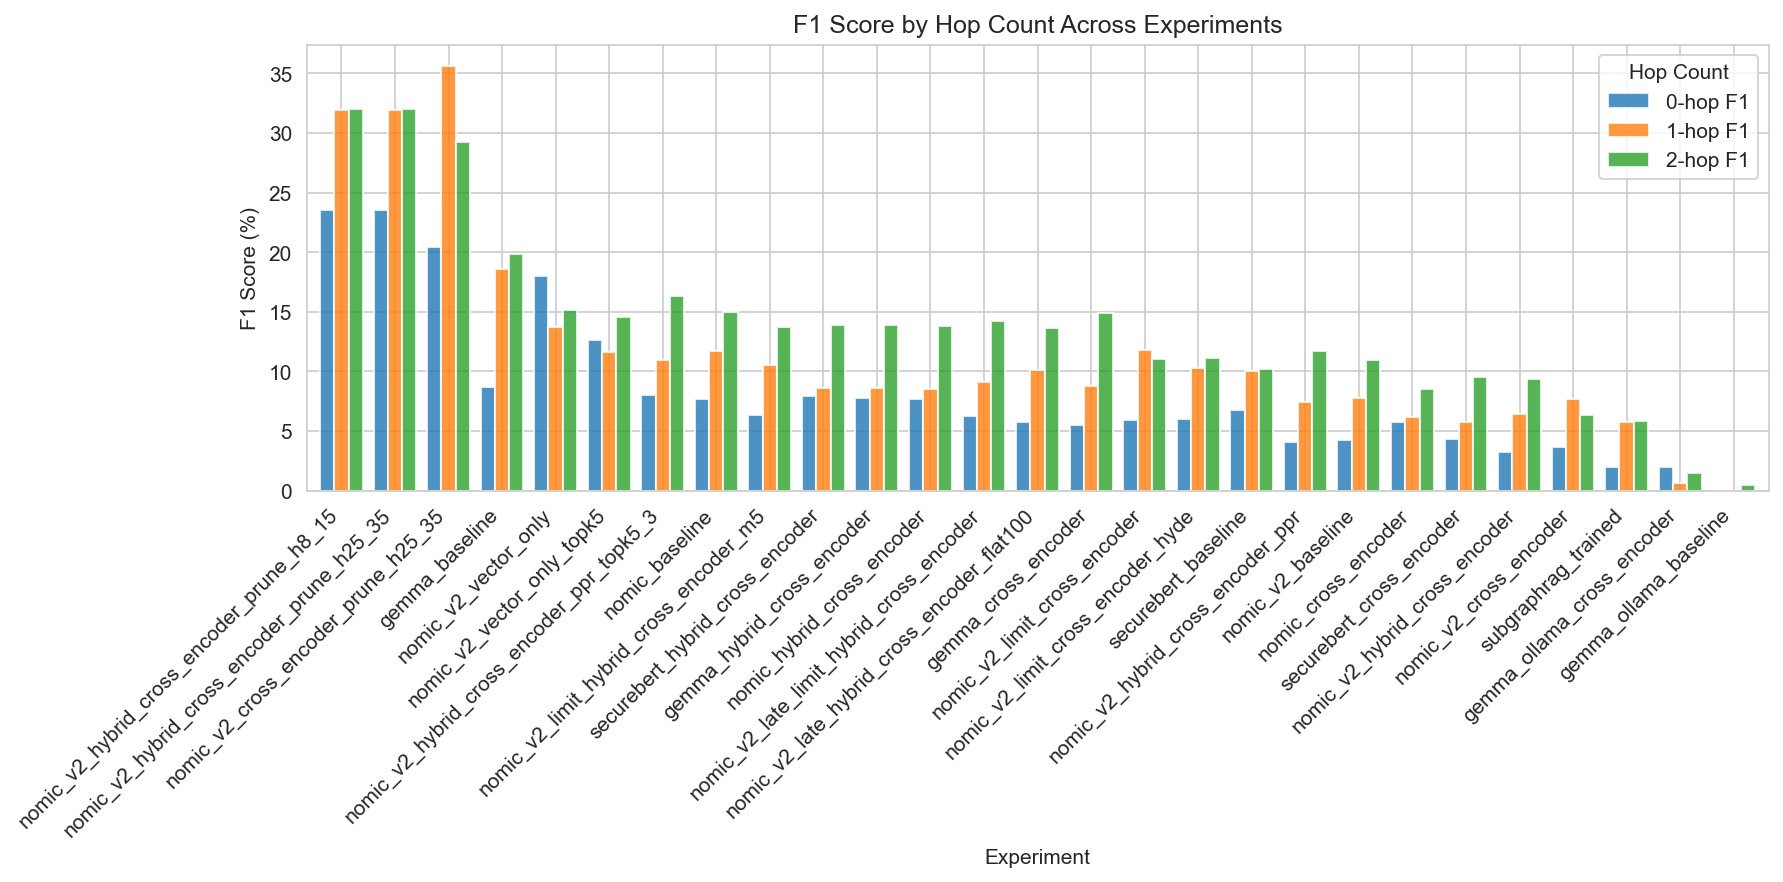
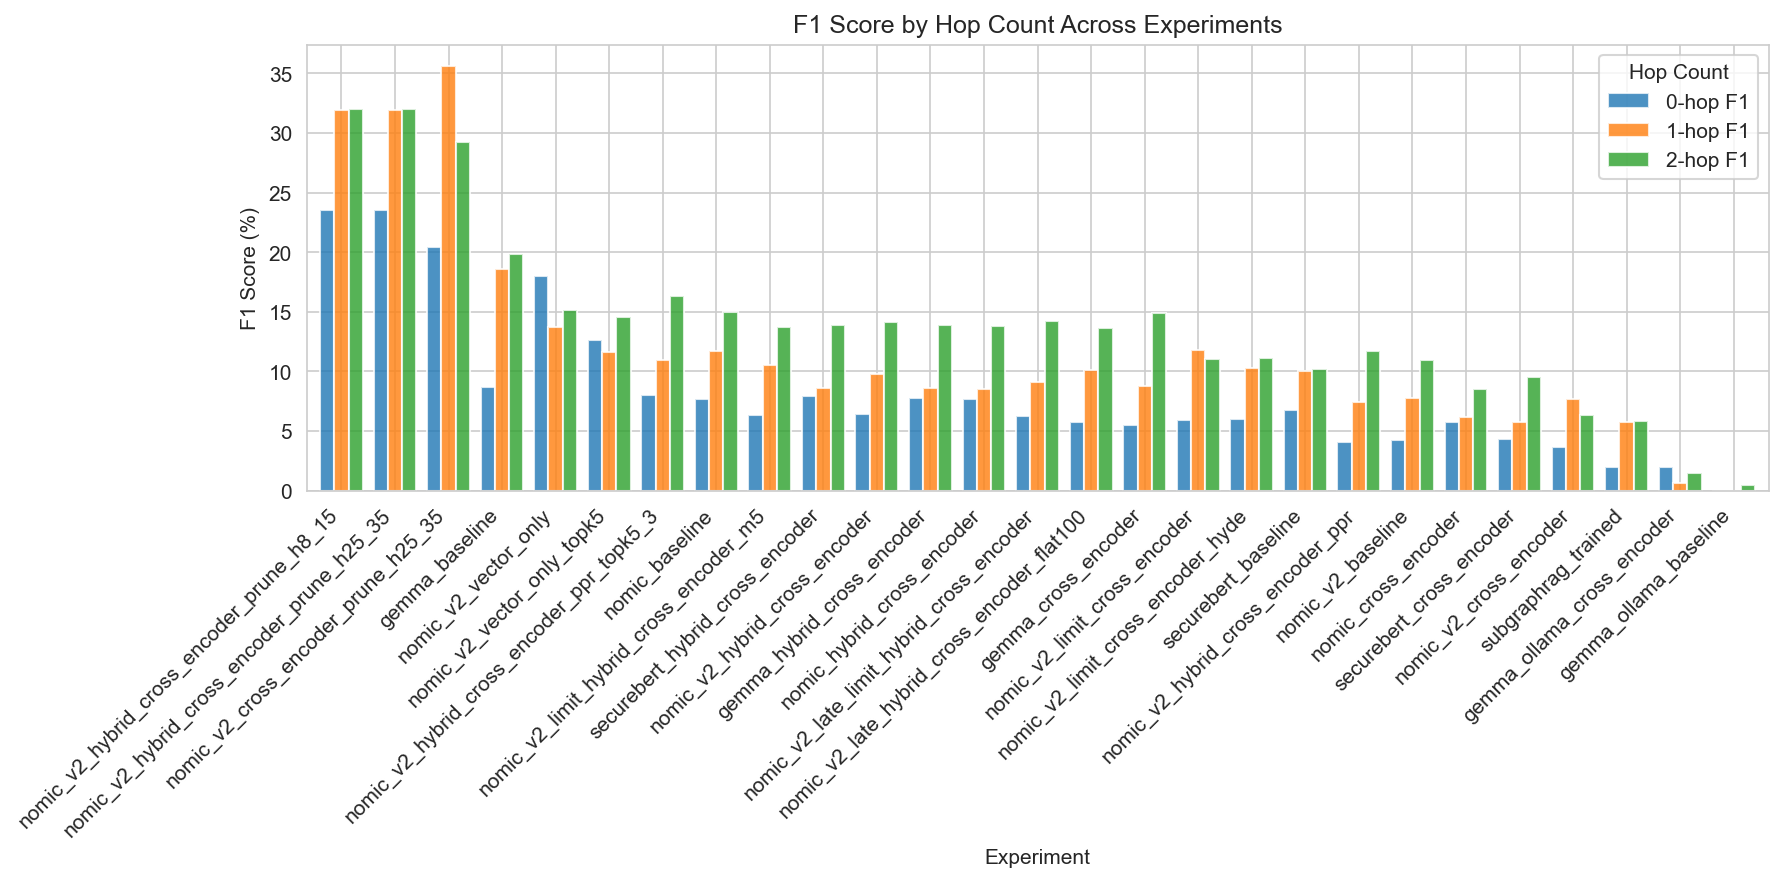
feat: add latency tracking to evaluation dataset and analysis
- Implemented latency measurement in the question processing pipeline, capturing the time taken for query execution.
- Updated evaluation metrics to include average latency calculations across samples, enhancing performance insights.
- Added a new section in the experiment analysis notebook to visualize average latency per question, improving reporting capabilities.
- Introduced a new latency comparison chart to facilitate performance analysis across different experiments.

diff --git a/qa-engine/dataset/create_evaluation_dataset.py b/qa-engine/dataset/create_evaluation_dataset.py
@@ -41,6 +41,7 @@ import os
 import json
 import argparse
 import signal
+import time
 from datetime import datetime
 from dataclasses import asdict
 from typing import List, Dict, Any, Optional
@@ -242,7 +243,9 @@ def run_question_through_pipeline(rag_engine, question: Dict[str, Any]) -> Dict[
 
     try:
         # Run the full pipeline
+        t0 = time.perf_counter()
         result = rag_engine.run(query_text)
+        latency_ms = (time.perf_counter() - t0) * 1000.0
         pruning_metadata = result.get("pruning_metadata", {}) or {}
         pruning_status = pruning_metadata.get("status", "")
         pruning_enabled = pruning_status == "applied"
@@ -292,7 +295,8 @@ def run_question_through_pipeline(rag_engine, question: Dict[str, Any]) -> Dict[
                     "pre_nodes": pruning_metadata.get("pre_nodes"),
                     "post_nodes": pruning_metadata.get("post_nodes"),
                     "prune_ratio": pruning_metadata.get("prune_ratio"),
-                }
+                },
+                "latency_ms": latency_ms,
             }
         }
 

diff --git a/qa-engine/dataset/evaluate_node_coverage.py b/qa-engine/dataset/evaluate_node_coverage.py
@@ -260,6 +260,7 @@ def evaluate_sample_coverage(sample: Dict[str, Any], label_uri_lookup: Optional[
         'hit_at_3': hit_at_3,
         'reciprocal_rank': reciprocal_rank,
         'ranking_available': ranking_available,
+        'latency_ms': sample.get("metadata", {}).get("latency_ms"),
     }
 
 
@@ -461,6 +462,14 @@ def evaluate_dataset(dataset_path: str) -> Dict[str, Any]:
         results['overall']['avg_hit_at_3'] = sum(all_hit3) / len(all_hit3)
         results['overall']['avg_mrr'] = sum(all_rr) / len(all_rr)
         results['overall']['ranking_samples'] = len(all_hit1)
+
+    all_latencies = [
+        r["latency_ms"]
+        for r in results["detailed_results"]
+        if r.get("latency_ms") is not None
+    ]
+    if all_latencies:
+        results["overall"]["avg_latency_ms"] = sum(all_latencies) / len(all_latencies)
 
     return results
 
